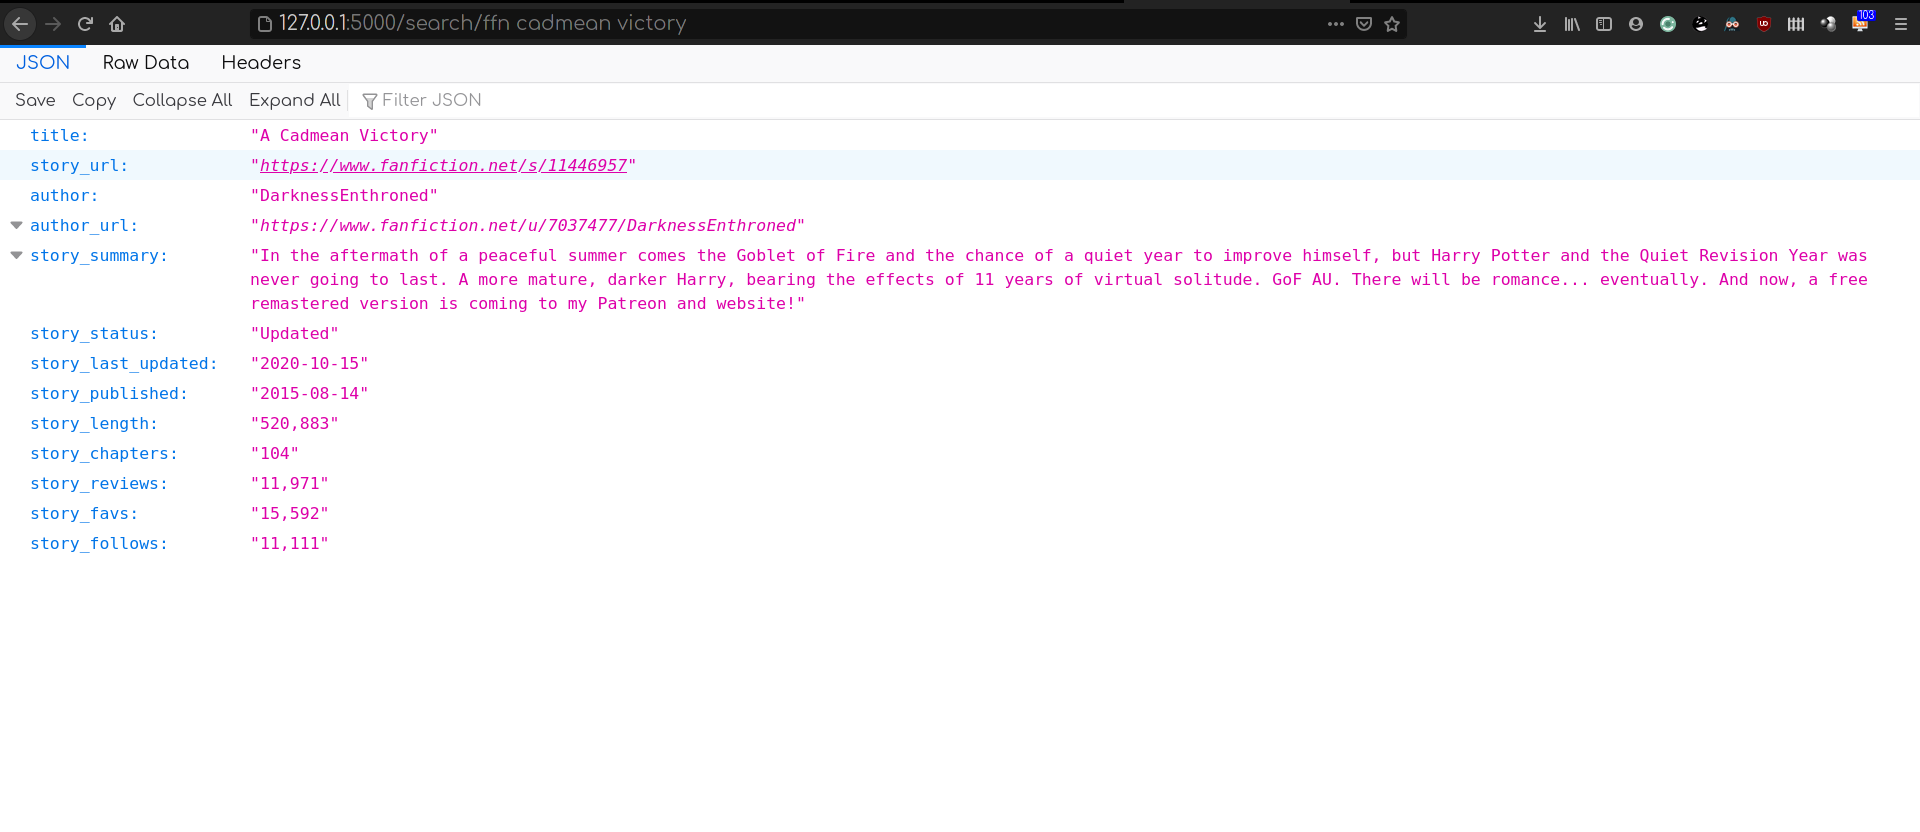
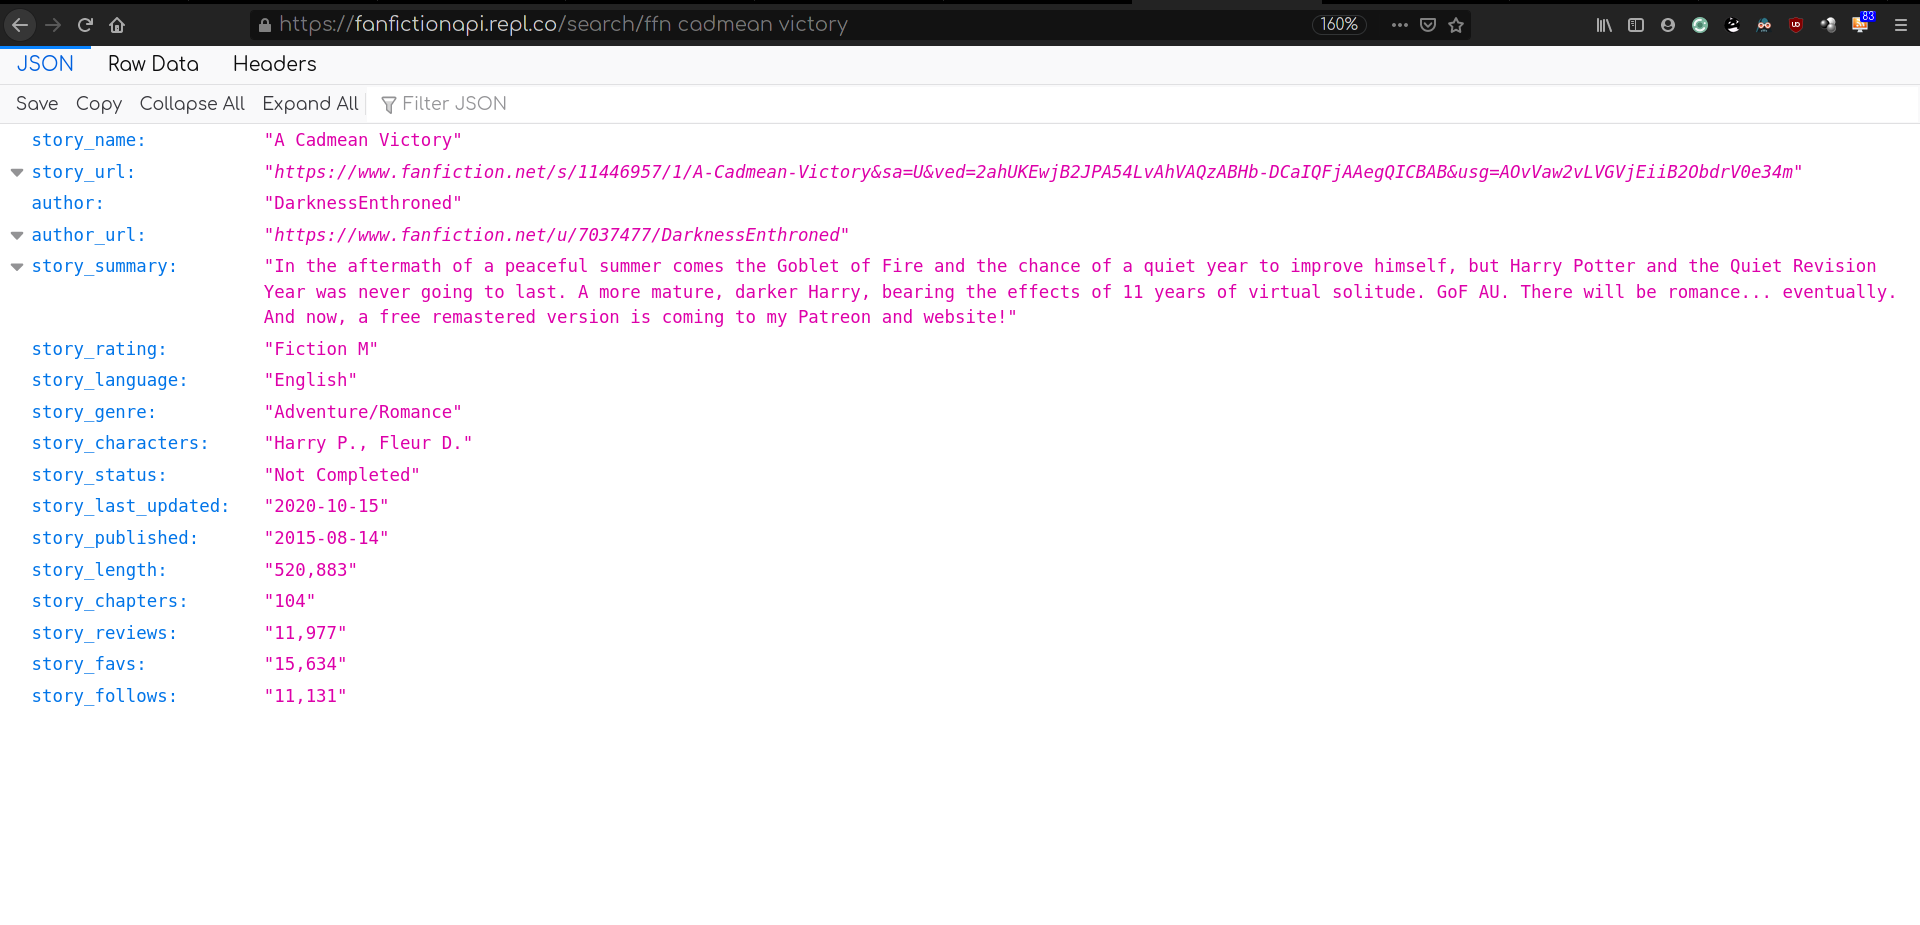
Updated ffn_story.png

diff --git a/utils/metadata.py b/utils/metadata.py
@@ -31,7 +31,7 @@ def ao3_metadata(query):
             ao3_url)
 
         result = {
-            'series': ao3_series_name,
+            'series_name': ao3_series_name,
             'series_url': ao3_url,
             'author': ao3_author_name,
             'author_url': ao3_author_url,
@@ -106,7 +106,7 @@ def ffn_metadata(query):
         ffn_author_url = "https://www.fanfiction.net"+ffn_author_url
 
         result = {
-            'title': ffn_story_name,
+            'story_name': ffn_story_name,
             'story_url': ffn_url,
             'author': ffn_author_name,
             'author_url': ffn_author_url,
